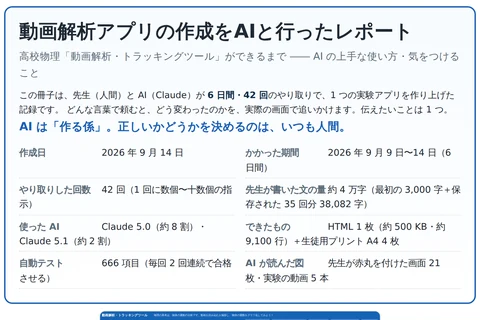
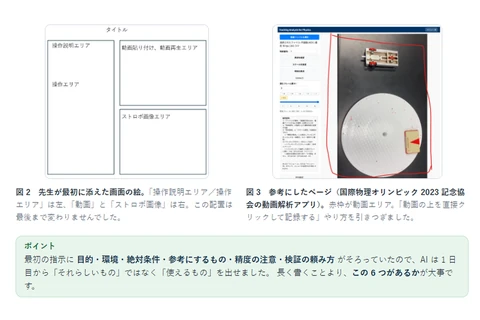
インデックス

diff --git a/index.html b/index.html
@@ -537,7 +537,7 @@ const GC_CODE = "physics-chiba";
 
 /* サムネイル画像の版番号。画像を差し替えたら、この数字を 1 つ増やしてください。
    （増やさないと、前に見た人のブラウザが古い画像を出しつづけます）      */
-const IMG_V = 5;
+const IMG_V = 6;
 
 const FORM_URL ="https://docs.google.com/forms/d/e/1FAIpQLScU1DzFTmUDGSvP3UE5Lr7RY8NvjukkzBHmQYtmOac44twPwQ/viewform?embedded=true";
 
